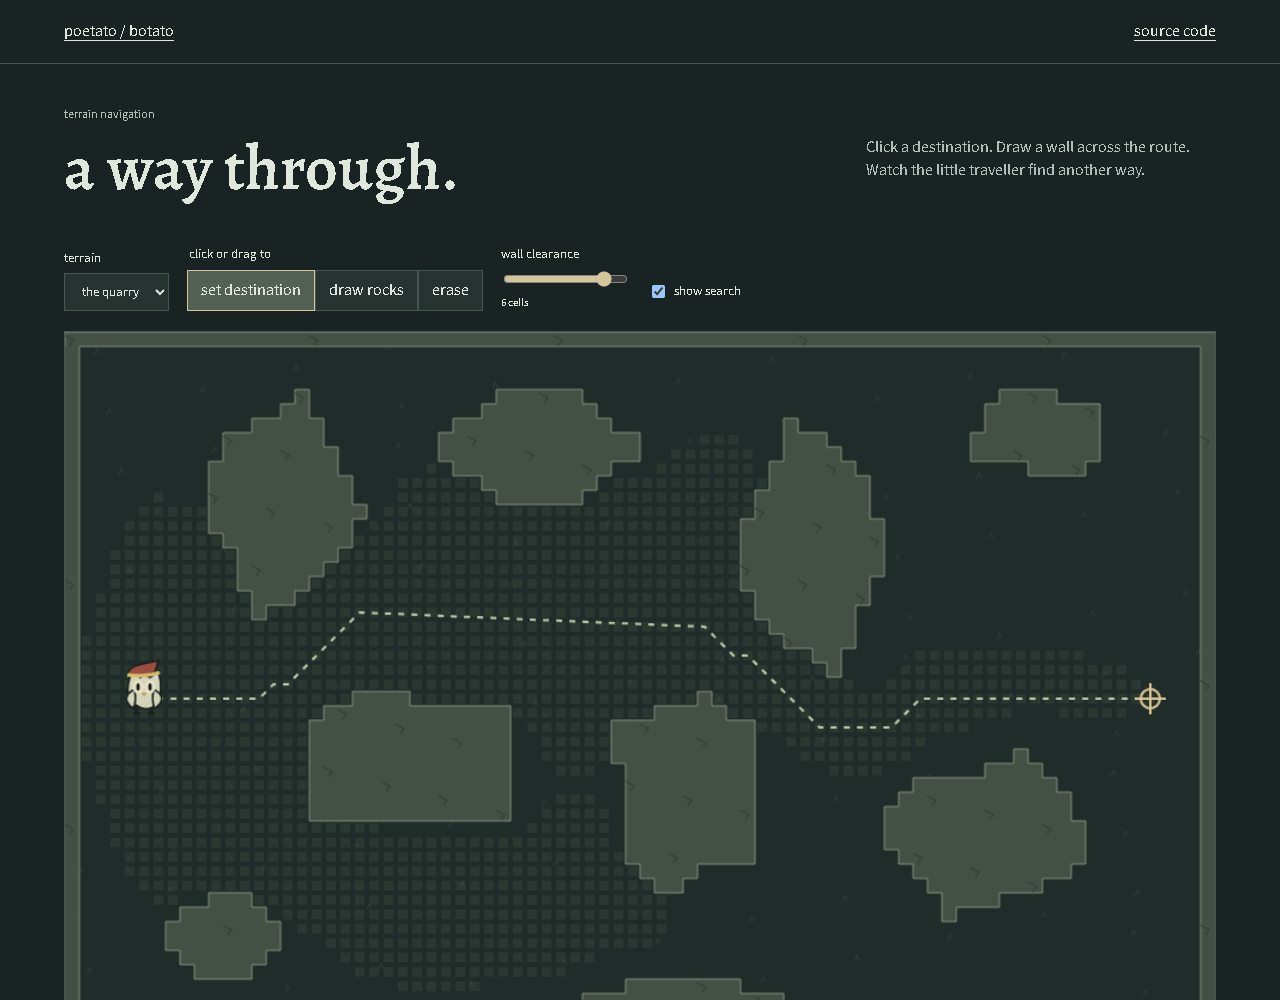
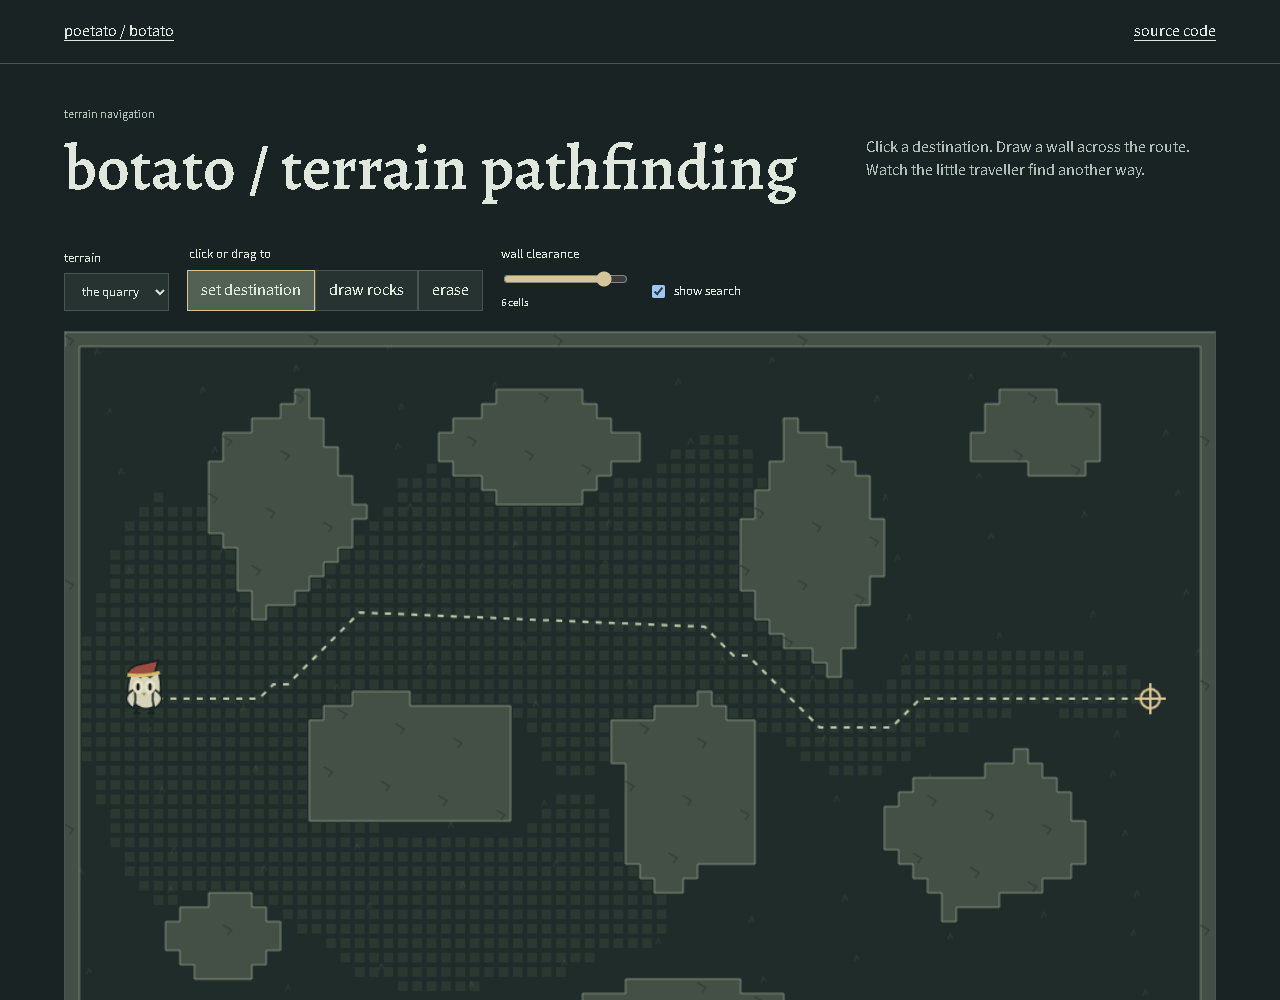
Make the project purpose and primary browsing workflow easier to find

Changed region(s): [[0.0312, 0.124, 0.625, 0.217]]

diff --git a/examples/portfolio/index.html b/examples/portfolio/index.html
@@ -16,7 +16,7 @@
             <div class="intro">
                 <div>
                     <p class="eyebrow">terrain navigation</p>
-                    <h1>a way through.</h1>
+                    <h1>botato / terrain pathfinding</h1>
                 </div>
                 <p>
                     Click a destination. Draw a wall across the route. Watch the
